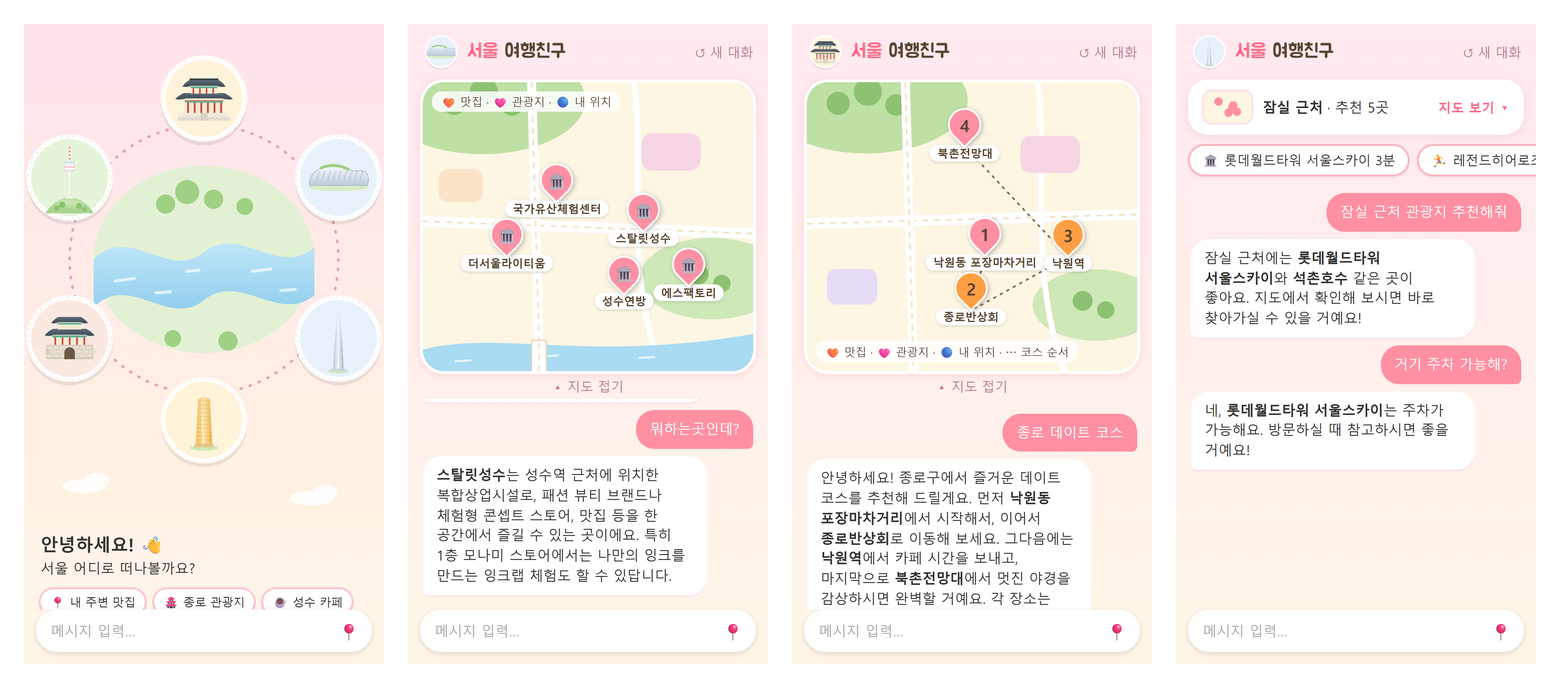
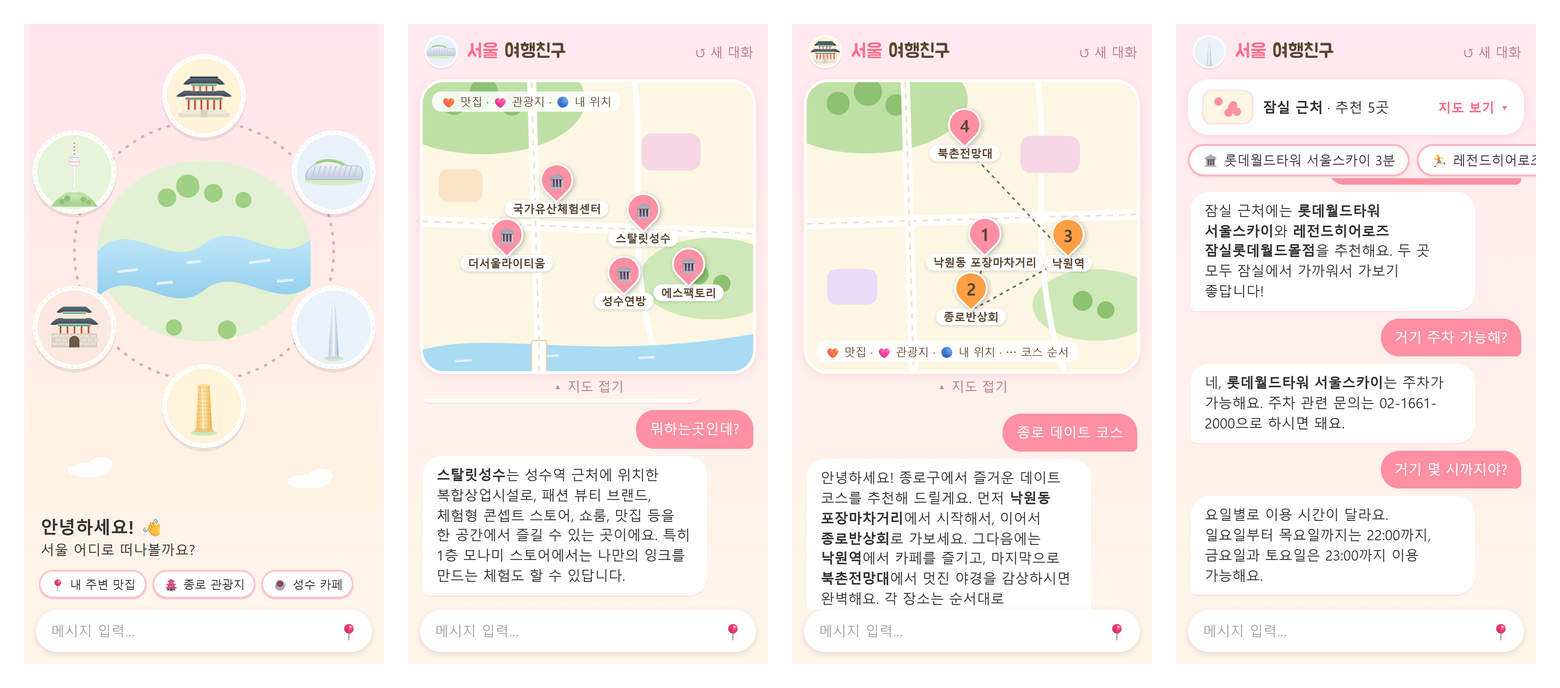
fix: 짧은 휴대폰 화면에서 첫 화면 칩이 입력창에 가리지 않게 그림 축소, README 4번 캡처에 영업시간 이어 묻기 추가

diff --git a/static/css/app.css b/static/css/app.css
@@ -38,7 +38,8 @@ button { font: inherit; color: inherit; cursor: pointer; }
 
 /* ---------- 첫 화면 S2a ---------- */
 .home { flex: 1; min-height: 0; overflow-y: auto; display: flex; flex-direction: column; }
-.home-art { display: block; width: 100%; flex-shrink: 0; }
+/* 화면이 짧으면(9:16 휴대폰) 그림이 줄어들어 인사말·칩이 입력창에 가리지 않게 함 (늘어나지는 않음) */
+.home-art { display: block; width: 100%; flex: 0 1 auto; min-height: 220px; }
 /* 포인터를 따라다니는 🎒 (follower.js) — 클릭을 막지 않음 */
 .follower {
   position: fixed; left: 0; top: 0; z-index: 50; pointer-events: none; user-select: none;

diff --git a/README.md b/README.md
@@ -6,8 +6,8 @@
 "종로 데이트 코스"라고 하면 **걸어서 이어지는 3~4곳 코스**를 짜 줍니다.
 
 <p align="center">
-  <img src="docs/images/overview.png" alt="① 첫 화면 → ② 근처 추천과 장소 소개 → ③ 추천 코스(번호 핀·점선) → ④ 거기 주차 가능해? 이어 묻기" width="100%"><br>
-  <sub>① 첫 화면 · ② 근처 추천과 "뭐하는곳인데?" · ③ 종로 데이트 코스 · ④ "거기 주차 가능해?" 이어 묻기</sub>
+  <img src="docs/images/overview.png" alt="① 첫 화면 → ② 근처 추천과 장소 소개 → ③ 추천 코스(번호 핀·점선) → ④ 거기 주차 가능해?·몇 시까지야? 이어 묻기" width="100%"><br>
+  <sub>① 첫 화면 · ② 근처 추천과 "뭐하는곳인데?" · ③ 종로 데이트 코스 · ④ "거기 주차 가능해?" → "거기 몇 시까지야?" 이어 묻기</sub>
 </p>
 
 > 한국관광공사 데이터에 있는 서울 장소 3,441곳 안에서만 추천합니다.
